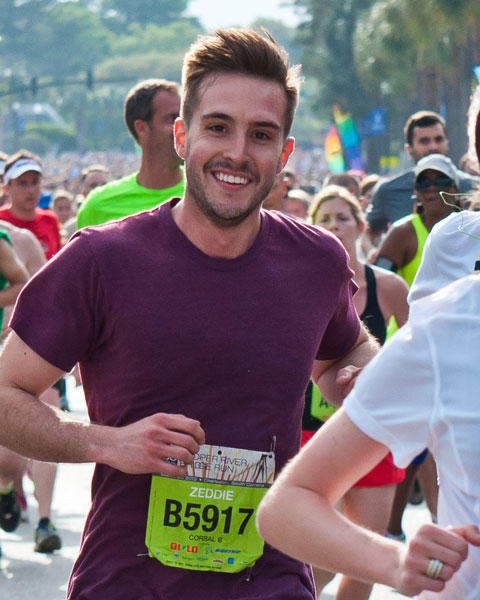
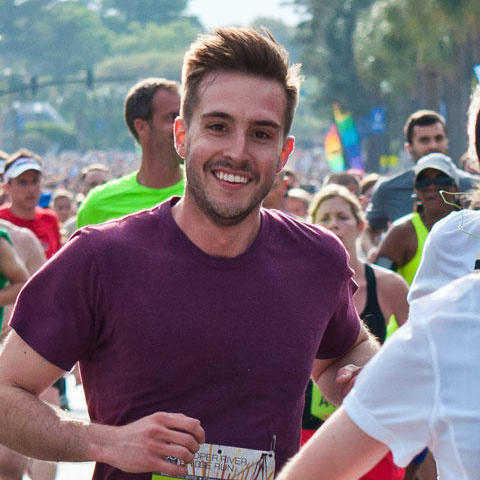
gallery and meme page are styled

diff --git a/public/scripts/meme.js b/public/scripts/meme.js
@@ -3,33 +3,11 @@
  */
 var commentIndex = Math.floor(Math.random() * 100000);
 var comments = [];
-var SLIDESHOW_DURATION = 8000; // How long a comment is shown for if no click
-var resetCommentTimer; // slide show timer
 
 /**
- * A function for creating resettable interval timers
- * @param duration : Number of milliseconds to wait before invoking the callback
- * @param callback : Function to invoke when duration has expired
- * @returns {reset} : A function that, when invoked, resets the countdown
+ *
+ * @param direction
  */
-function createResettableInterval(callback, duration) {
-
-  var timer;
-
-  var reset = function() {
-    clearTimeout(timer);
-    var onTimeout = function() {
-      callback();
-      reset();
-    };
-    timer = setTimeout(onTimeout, duration);
-  };
-
-  reset();
-
-  return reset;
-}
-
 function render(direction) {
 
   var $first = $('.first');
@@ -75,22 +53,15 @@ function onReady() {
   // render the initial comment
   render(0);
 
-  // set up the slideshow timer
-  resetCommentTimer = createResettableInterval(function() {
-    render(+1);
-  }, SLIDESHOW_DURATION);
-
   // set up click handlers
   $('.right').on('click', function(event) {
     event.preventDefault();
     render(+1);
-    resetCommentTimer();
   });
 
   $('.left').on('click', function(event) {
     event.preventDefault();
     render(-1);
-    resetCommentTimer();
   });
 }
 

diff --git a/public/stylesheets/meme.css b/public/stylesheets/meme.css
@@ -1,0 +1,51 @@
+/** {*/
+  /*border: dashed 1px;*/
+/*}*/
+
+.meme-page {
+  text-align: center;
+  width: 100%;
+  margin: auto;
+}
+
+img {
+  width: 100%;
+  vertical-align: bottom;
+}
+
+.left {
+  float: left;
+}
+
+.right {
+  float: right;
+}
+
+
+.left, .right {
+  font-size: 10rem;
+}
+
+.meme {
+  margin: auto;
+  width: 35%;
+  position: relative;
+  color: white;
+  text-shadow: 2px 2px #000000;
+  font-size: 1.3rem;
+  text-transform: uppercase;
+}
+
+.first {
+  position: absolute;
+  top: 0;
+}
+
+.second {
+  position: absolute;
+  bottom: 2%;
+}
+
+.first, .second {
+  width: 100%;
+}

diff --git a/app.js b/app.js
@@ -23,7 +23,7 @@ app.use('/', index);
 app.use('/', memes);
 app.use('/api', api);
 
-app.get('/jquery.min.js', function(req, res) {
+app.get('/vendors/jquery.min.js', function(req, res) {
   res.sendFile(path.join(__dirname, 'node_modules', 'jquery', 'dist', 'jquery.min.js'));
 });
 

diff --git a/public/stylesheets/main.css b/public/stylesheets/main.css
@@ -1,0 +1,9 @@
+body {
+  font: 14px "Lucida Grande", Helvetica, Arial, sans-serif;
+}
+
+h1 {
+  text-align: center;
+  font-size: 5em;
+  margin: 1%;
+}

diff --git a/public/stylesheets/index.css b/public/stylesheets/index.css
@@ -1,0 +1,9 @@
+.gallery {
+  text-align: center;
+}
+
+.gallery img {
+  width: 30%;
+  margin: 1%;
+  vertical-align: middle;
+}
